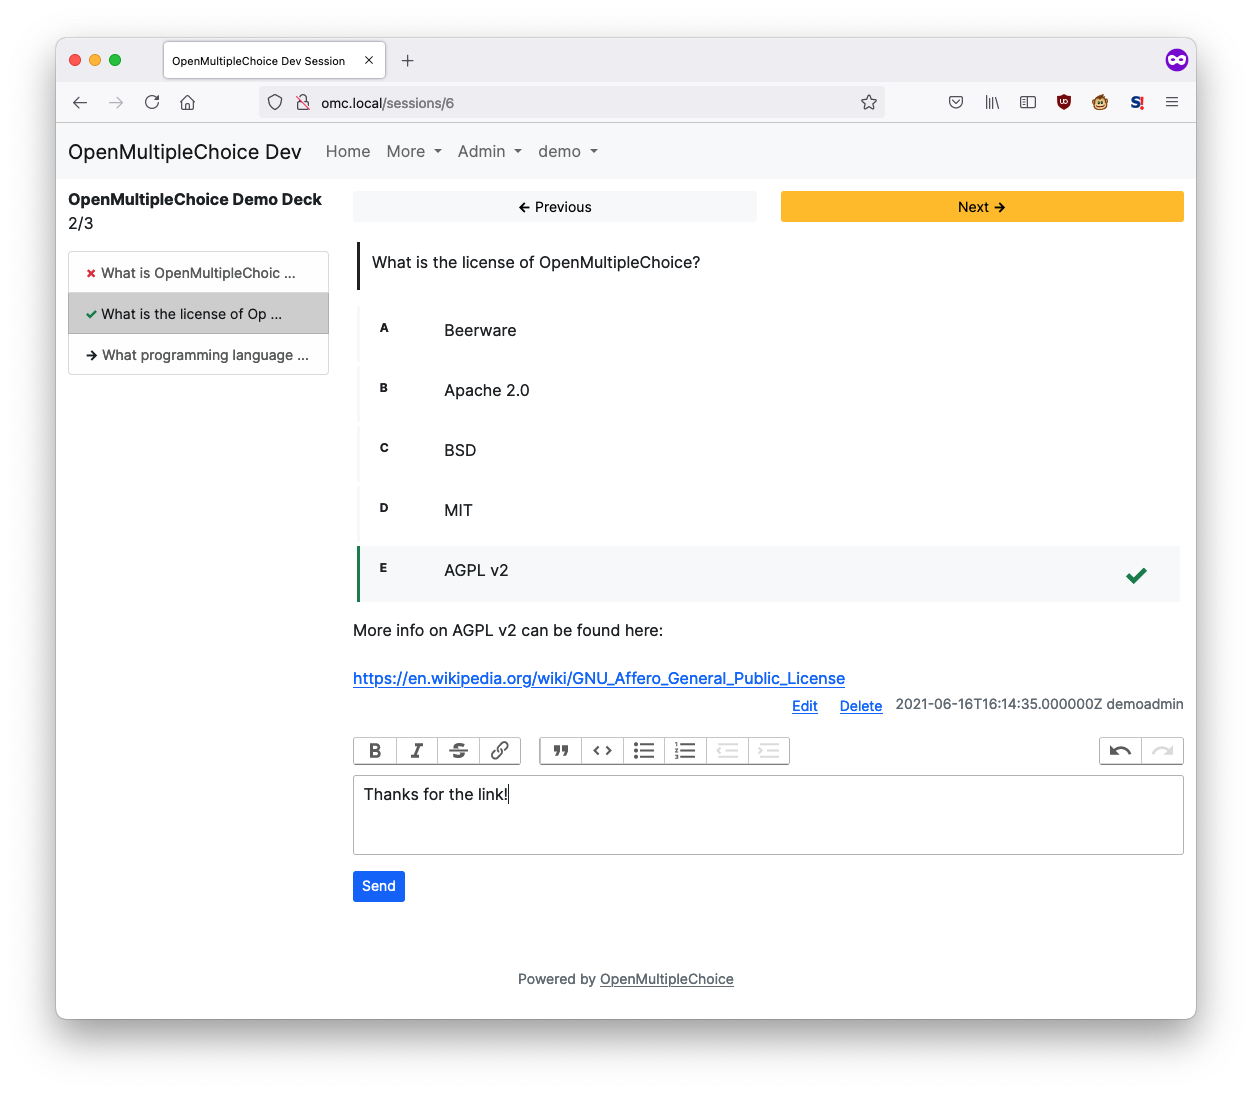
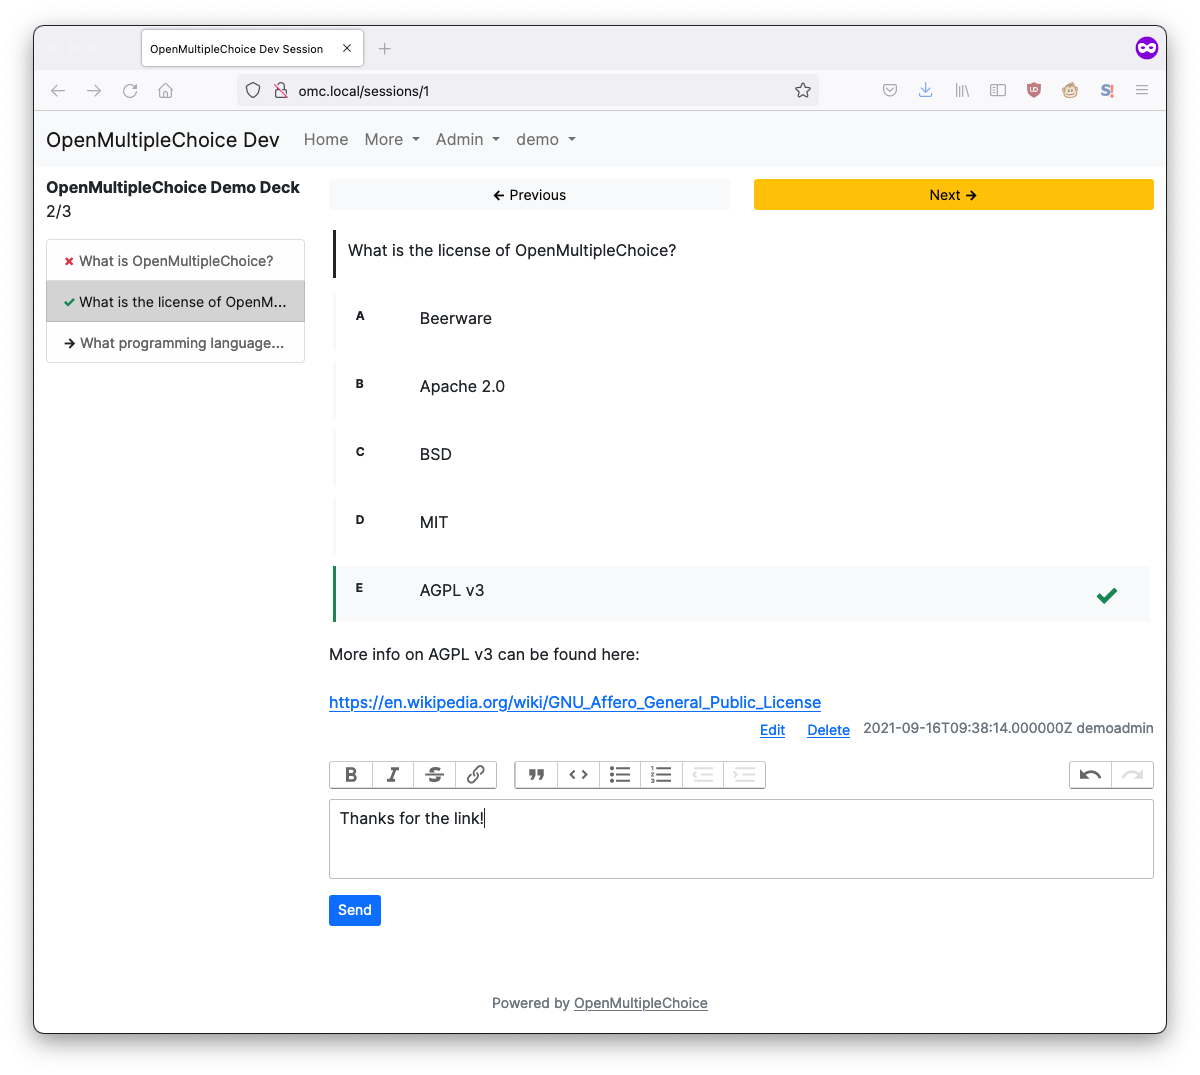
docs: fix license version in demo deck

diff --git a/database/seeders/DemoSeeder.php b/database/seeders/DemoSeeder.php
@@ -92,7 +92,7 @@ class DemoSeeder extends Seeder
             'question_id' => $question->id,
         ]);
         $correct_answer = Answer::create([
-            'text' => 'AGPL v2',
+            'text' => 'AGPL v3',
             'question_id' => $question->id,
         ]);
         $question->correct_answer_id = $correct_answer->id;
